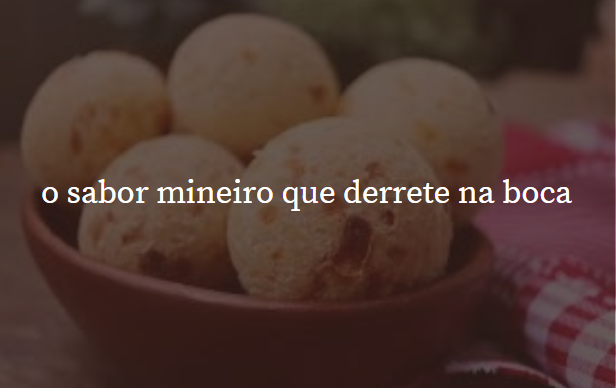
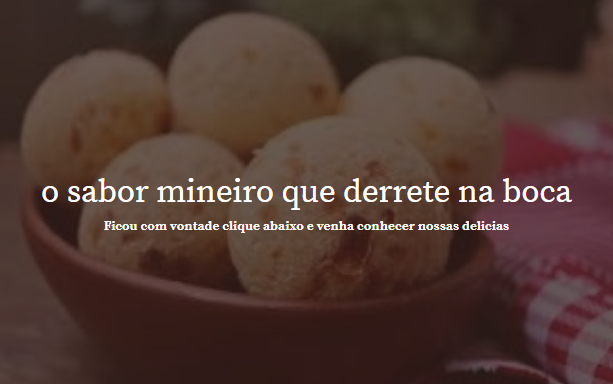
atualização do home

Changed region(s): [[0.062, 0.4375, 0.9299, 0.625], [0.9608, 0.0, 1.0, 1.0], [0.7749, 0.9375, 0.8679, 0.9688]]

diff --git a/HTML/index.html b/HTML/index.html
@@ -10,15 +10,25 @@
         <div id="menu" style="width: 325px; float: right; margin-top: 50px;">
             <nav>
                 <a href="index.html" style="text-decoration: none; color: #F27D16; margin-left:10px ;">Home</a>
-                <a href="#"  style="text-decoration: none; color: #F27D16; margin-left:10px ;">Produtos</a>
-                <a href=""  style="text-decoration: none; color: #F27D16; margin-left:10px ;">Contato</a>
-                <a href="#" style="text-decoration: none; color: #F27D16; margin-left:10px ;">Sobre Nós</a>
+                <a href="produto.html"  style="text-decoration: none; color: #F27D16; margin-left:10px ;">Produtos</a>
+                <a href="contato.html"  style="text-decoration: none; color: #F27D16; margin-left:10px ;">Contato</a>
+                <a href="sobre.html" style="text-decoration: none; color: #F27D16; margin-left:10px ;">Sobre Nós</a>
             </nav>
         </div>
-        <div id="logo" style="height: 150px; width: 150px; border: 1px solid black;">
-            <img src="../Img/logo.png" alt="logo"  style="height: 150px; width: 150px;">
+        <div id="logo" style="height: 150px; width: 150px;">
+            <img src="../Img/logo.png" alt="logo"  style="height: 200px; width: 200px; margin-top: -20px;">
         </div>
     </header>
+    <main>
+        <section>
+            <br>
+            <div id="img" style="width: 1000px;height: 629px; margin: auto; border: 5px solid #F2C12E; border-radius: 5px;">
+                <img src="../Img/home.png" alt="imagem de espansam" style="width: 1000px; border-radius: 5px; position: absolute;">
+                <button style="background-color: #F27D16; margin-top:400px;margin-left: 380px;width: 250px;height: 50px; position: relative; border-radius: 5px; border-color: #F2C12E;" ><a href="produto.html" style="text-decoration: none; color: #F2C12E;">Clique Aqui</a></button>
+           
+            </div>
+        </section>
+    </main>
     
 </body>
 </html>
